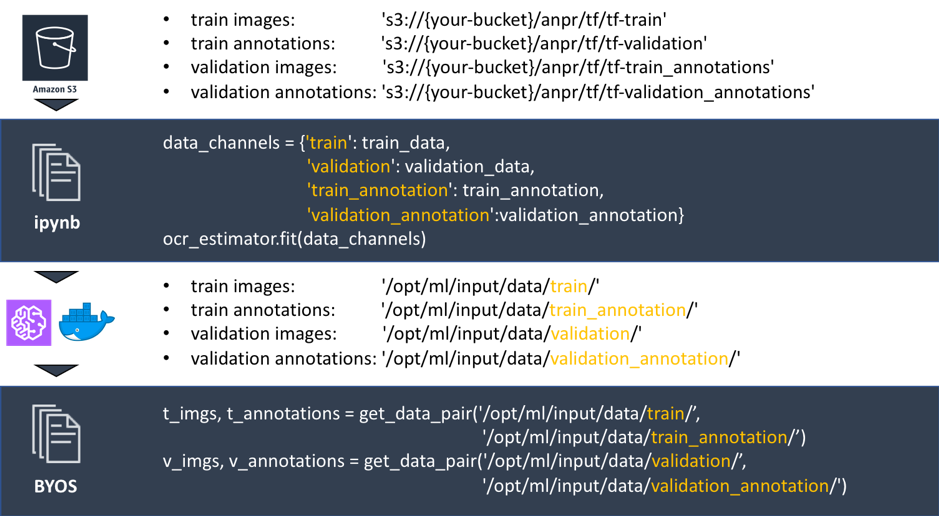
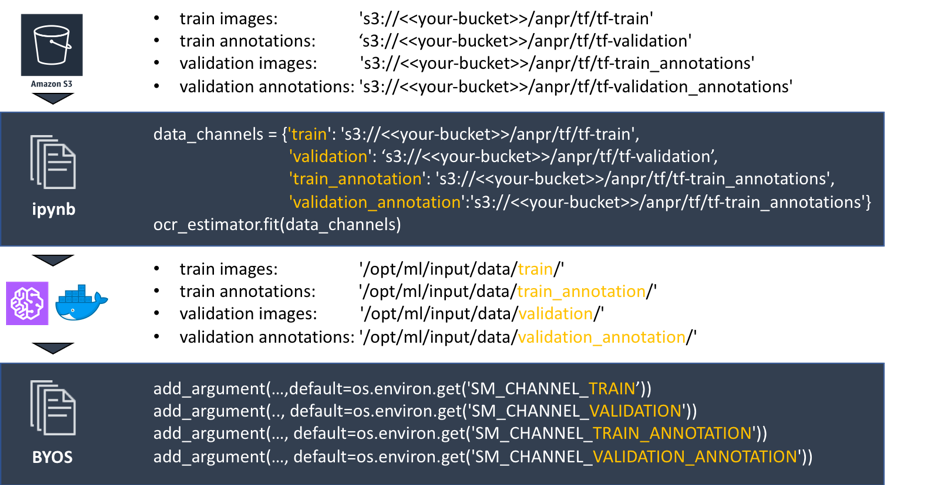
update the ocr.py to use SM_CHANNEL_*

diff --git a/cnn_ocr.py b/cnn_ocr.py
@@ -46,7 +46,9 @@ def parse_args():
     
     # data directories
     parser.add_argument('--train', type=str, default=os.environ.get('SM_CHANNEL_TRAIN'))
-    parser.add_argument('--test', type=str, default=os.environ.get('SM_CHANNEL_TEST'))
+    parser.add_argument('--validation', type=str, default=os.environ.get('SM_CHANNEL_VALIDATION'))
+    parser.add_argument('--train_annotation', type=str, default=os.environ.get('SM_CHANNEL_TRAIN_ANNOTATION'))
+    parser.add_argument('--validation_annotation', type=str, default=os.environ.get('SM_CHANNEL_VALIDATION_ANNOTATION'))
     
     # model directory: we will use the default set by SageMaker, /opt/ml/model
     parser.add_argument('--model_dir', type=str, default=os.environ.get('SM_MODEL_DIR'))
@@ -59,10 +61,10 @@ def get_data_pair(train_dir, annotation_dir):
     for i in t_jsns:
         ext = i.split('.')[1]
         if ext == 'json':
-            with open(annotation_dir + i, "r") as jfile:
+            with open(annotation_dir + '/' + i, "r") as jfile:
                 jdata = json.load(jfile)
                 # read image
-                img=Image.open(train_dir + jdata['file']) 
+                img=Image.open(train_dir + '/' + jdata['file']) 
                 img = img.resize((128, 64))
                 imgs = img if flg_first else np.append(imgs, img)
                 # read license plate numbers
@@ -121,10 +123,11 @@ if __name__ == "__main__":
 
     args, _ = parse_args()
     print('args test: learning_rate = {}, batch_size = {}, epochs = {}'.format(args.learning_rate, args.batch_size, args.epochs))
+    print(args)
     
     # change the path to use '/opt/ml/input/data/{channel}/...'
-    t_imgs, t_annotations = get_data_pair('/opt/ml/input/data/train/', '/opt/ml/input/data/train_annotation/')
-    v_imgs, v_annotations = get_data_pair('/opt/ml/input/data/validation/', '/opt/ml/input/data/validation_annotation/')
+    t_imgs, t_annotations = get_data_pair(args.train, args.train_annotation)
+    v_imgs, v_annotations = get_data_pair(args.validation, args.validation_annotation)
     
     device = '/gpu:0' 
     print(device)
@@ -150,6 +153,7 @@ if __name__ == "__main__":
         # save checkpoint for locally loading in notebook
         saver = tfe.Saver(model_k.variables)
         saver.save(args.model_dir + '/weights.ckpt')
+        
         # create a separate SavedModel for deployment to a SageMaker endpoint with TensorFlow Serving
         tf.contrib.saved_model.save_keras_model(model_k, args.model_dir)
 

diff --git a/blog.md b/blog.md
@@ -140,14 +140,16 @@ ________________________________________________________________________________
 
 In Lab 4, you will see how to modify the code of Lab 3 to run on Amazon SageMaker. For TensorFlow versions 1.11 and later, the SageMaker Python SDK supports script mode training scripts. With this mode, you can write BYOS in much the same way as you would in an existing environment. 
 
-The most important modification to run the code on SageMaker is to match the input/output channels of the data. In terms of the input channel, SageMaker training job runs based on Docker Container and it assumes that the training data is on the S3. In this case, how does the training job that runs on Docker Container access the data in S3? 
+The most important modification to run the code on SageMaker is to match the input/output channels of the data. In terms of input channels, SageMaker training job runs on Docker Container and it assumes that the training data is on the S3. In this case, how does the training job access the data in S3 and how is the job result passed after training?
 
-The following picture illustrates the process of the data mapping that occurs at this case. At first, you upload your data into S3. Next, in your python notebook, you will pass those S3 path into your training job as a parameter. And then SageMaker will copy the S3 data into the '/opt/ml/input/data/{channel}/' folder in your Docker Container. Therefore, in your BYOS(entry point script), you should refer those folders of '/opt/ml/input/data/{channel}/' path.  
+The following picture illustrates the process of the data mapping that occurs in the SageMaker. At first, you upload your data into S3. Next, in your python notebook, you will pass those S3 path into your training job as a parameter. And then SageMaker will copy the S3 data into the '/opt/ml/input/data/{channel}/' folder in your Docker Container and pass the paths as SM_CHANNEL_{channel} parameters.
+
 
 <img src='imgs/sm_data_path.png' stype='width:600px;'/>  
 <br />
     
-Notice the orange channel names in the picture above. If you pass data interface channels as a JSON key, value format, SageMaker will create each folders in your Docker Container '/opt/ml/input/data/' folder such as '/opt/ml/input/data/train/', '/opt/ml/input/data/validation/', etc.
+Look at the orange channel names in the picture above. If you pass data interface channels as a JSON key-value format, SageMaker will create each folder inside your Docker Container '/opt/ml/input/data/' folder, such as '/opt/ml/input/data/train/', '/opt/ml/input/data/validation/', etc. You should refer those folders by using SM_CHANNEL_{channel} parameters (or using those pathes explicitly).
+
 
 After the training job is finishes, the result will be sent back to S3. SageMaker will copy the trainned model from the folder '/opt/ml/model' to S3 at the end of training. Therefore, you need to store your trained model in this folder.
 
